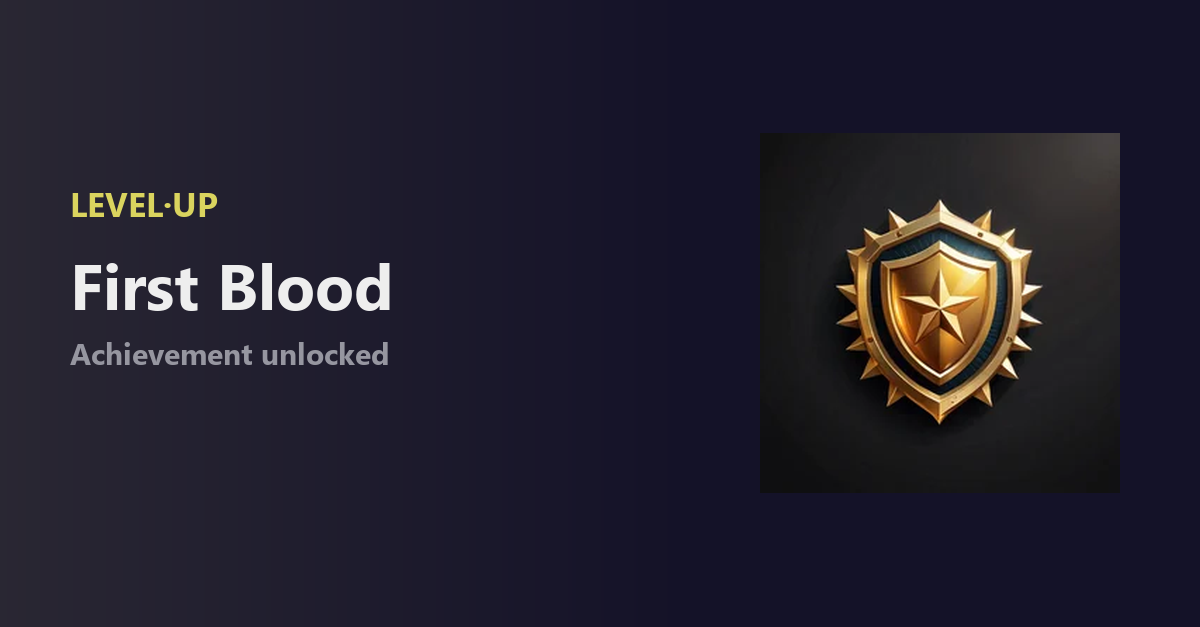
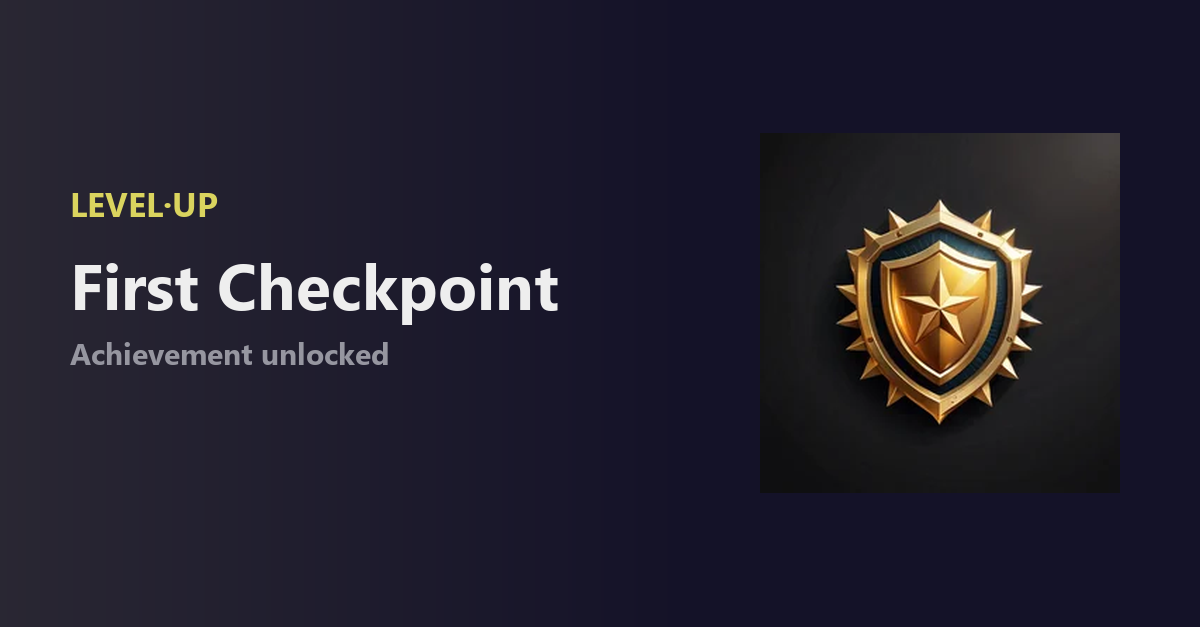
fix(reward+badges): queue reward toasts; retone two badges (reviewer feedback)
P3 reviewers (3/4 PASS: ux-a11y, game-feel, correctness). Fixes from findings:
- REAL BUG (game-feel): RewardHost clobbered stacked toasts (checkpoint-clear +
  badge-unlock fired together, only last shown). Now queues them so each shows
  in turn. Fixed the ref-cleanup lint too.
- Tone: 'First Blood'->'First Checkpoint' (MOBA flavor clashed w/ serious
  positioning); 'Getting Deep'->'Ten Concepts Studied' w/ honest study-progress
  framing (not a mastery/participation trophy). Regenerated their OG cards.
tsc/lint/40-vitest/build all green.

Changed region(s): [[0.185, 0.4242, 0.4625, 0.5152]]

diff --git a/src/components/Reward.tsx b/src/components/Reward.tsx
@@ -41,27 +41,38 @@ export function RewardHost() {
   const [active, setActive] = useState<Active | null>(null);
   const motion = usePrefersMotion();
   const timers = useRef<number[]>([]);
+  // Queue of pending rewards. When several fire at once (e.g. a checkpoint clear
+  // that also unlocks a badge), we show them one after another instead of the
+  // last one clobbering the rest.
+  const queue = useRef<RewardDetail[]>([]);
+  const showing = useRef(false);
 
   useEffect(() => {
-    function onReward(e: Event) {
-      const d = (e as CustomEvent<RewardDetail>).detail;
-      timers.current.forEach(clearTimeout);
-      timers.current = [];
+    function showNext() {
+      const next = queue.current.shift();
+      if (!next) { showing.current = false; return; }
+      showing.current = true;
       const id = performance.now();
-      setActive({ ...d, id, leaving: false });
-      // auto-dismiss: hold, then animate out
+      setActive({ ...next, id, leaving: false });
       const hold = window.setTimeout(() => {
         setActive((a) => (a && a.id === id ? { ...a, leaving: true } : a));
       }, 4200);
       const gone = window.setTimeout(() => {
         setActive((a) => (a && a.id === id ? null : a));
+        showNext();   // advance the queue
       }, 4600);
       timers.current.push(hold, gone);
     }
+    function onReward(e: Event) {
+      const d = (e as CustomEvent<RewardDetail>).detail;
+      queue.current.push(d);
+      if (!showing.current) showNext();
+    }
     window.addEventListener("levelup:reward", onReward as EventListener);
+    const pending = timers.current;
     return () => {
       window.removeEventListener("levelup:reward", onReward as EventListener);
-      timers.current.forEach(clearTimeout);
+      pending.forEach(clearTimeout);
     };
   }, []);
 

diff --git a/src/lib/badges.ts b/src/lib/badges.ts
@@ -54,8 +54,8 @@ export const ACHIEVEMENTS: Achievement[] = [
   // Milestones
   {
     id: "first-checkpoint", category: "milestone", tier: "bronze", accent: "#dad45e",
-    name: { en: "First Blood", es: "Primera Sangre" },
-    description: { en: "Cleared your first checkpoint.", es: "Superaste tu primer punto de control." },
+    name: { en: "First Checkpoint", es: "Primer Punto de Control" },
+    description: { en: "Cleared your first checkpoint at the mastery gate.", es: "Superaste tu primer punto de control en el umbral de dominio." },
     criteria: { en: "Clear any one checkpoint at the mastery gate.", es: "Supera cualquier punto de control en el umbral de dominio." },
     earned: (p) => p.checkpointsCleared.length >= 1,
   },
@@ -68,9 +68,9 @@ export const ACHIEVEMENTS: Achievement[] = [
   },
   {
     id: "ten-concepts", category: "milestone", tier: "bronze", accent: "#6dc2ca",
-    name: { en: "Getting Deep", es: "Tomando Profundidad" },
-    description: { en: "Studied ten concepts.", es: "Estudiaste diez conceptos." },
-    criteria: { en: "Open and read ten curriculum concepts.", es: "Abre y lee diez conceptos del temario." },
+    name: { en: "Ten Concepts Studied", es: "Diez Conceptos Estudiados" },
+    description: { en: "Worked through ten curriculum concepts — a study habit taking hold.", es: "Recorriste diez conceptos del temario — un hábito de estudio que se afianza." },
+    criteria: { en: "Read ten curriculum concepts. (Study progress, not a mastery gate.)", es: "Lee diez conceptos del temario. (Progreso de estudio, no un umbral de dominio.)" },
     earned: (p) => p.conceptsRead.length >= 10,
   },
   {
